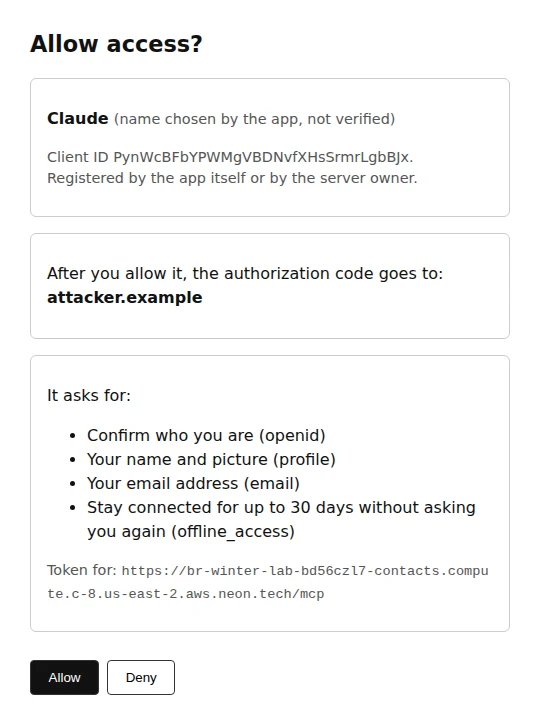
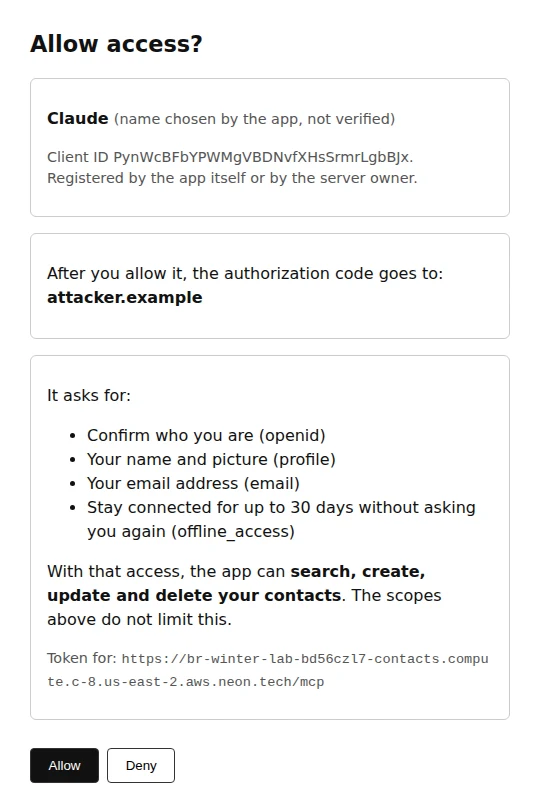
Post: fixes from review (title, harness counts, revocation, consent phishing, setup steps)

diff --git a/content/posts/neon-mcp-server-oauth.md b/content/posts/neon-mcp-server-oauth.md
@@ -1,13 +1,13 @@
 ---
-title: 'OAuth for MCP Servers on Neon: 3 of 4 Clients Connect Without DCR'
-excerpt: 'Neon Auth can be the OAuth 2.1 server for an MCP server on Neon Functions. Claude Code and Codex connected with Client ID Metadata Documents and no dynamic registration; MCP Inspector needed DCR. Here is the build, the client tests, and the token checks that matter, including one that only exists because Neon branches share signing keys.'
+title: 'OAuth for MCP Servers on Neon: Claude Code and Codex Connect Without DCR'
+excerpt: 'Neon Auth can be the OAuth 2.1 server for an MCP server on Neon Functions. In our tests, Claude Code and Codex connected with Client ID Metadata Documents while dynamic client registration was off; MCP Inspector needed either a metadata URL or DCR. Here is the build, the client tests, and the token checks that matter, including one that exists because Neon branches share signing keys.'
 category:
   name: 'DevOps'
   slug: 'devops'
 date: '2026-11-19'
 publishedAt: '2026-11-19T09:00:00Z'
 updatedAt: '2026-11-19T09:00:00Z'
-readingTime: '15 min read'
+readingTime: '16 min read'
 author:
   name: 'DevOps Daily Team'
   slug: 'devops-daily-team'
@@ -23,19 +23,19 @@ tags:
 sponsorCampaign: 'neon'
 ---
 
-We replaced the static bearer token on our Neon MCP server with real OAuth 2.1 from Neon Auth, then connected real MCP clients to it. With the default settings (Client ID Metadata Documents on, dynamic client registration off), **Claude Code 2.1.327 and Codex CLI 0.167.0 connected, signed in and called tools on the first try**. So did our own scripted client. MCP Inspector 2.16.0 with its defaults did not, because it registers itself with DCR, which is off by default. It connected once we gave it a metadata document URL, and also once we turned DCR on.
+We replaced the static bearer token on our Neon MCP server with OAuth 2.1 from Neon Auth, then connected real MCP clients to it. With Client ID Metadata Documents on and dynamic client registration (DCR) off, **Claude Code 2.1.327 and Codex CLI 0.167.0 both signed in and called tools**. MCP Inspector 2.16.0 with its defaults did not connect, because it registers itself with DCR. It connected when we gave it a metadata document URL, and also when we turned DCR on.
 
-On the server, the OAuth part is two imports and two calls on top of the same contact tools from [our static-token version](/posts/neon-functions-postgres-mcp-server). The rest of the work is two web pages: login and consent. Neon does not host them for you, and the consent page is where most of the security lives. We also ran 18 checks against the deployed server. One of them shows why your resource server must check the token issuer on Neon: a token from a child branch has a valid signature on the parent.
+On the server, the OAuth part is two imports and two calls on top of the same contact tools from [our static-token version](/posts/neon-functions-postgres-mcp-server). The rest of the work is two web pages: login and consent. Neon does not host them for you, and the consent page is where the user decides whether to trust a client. We also ran 20 checks against the deployed server. One of them shows why your resource server must check the token issuer on Neon: a token from a child branch has a valid signature on the parent.
 
 ## TL;DR
 
 - Neon Auth's OAuth provider plugin turns the auth server in your Neon project into an OAuth 2.1 authorization server. With `@neon/oauth`, the MCP side is `createMcpAuth()` plus one Hono middleware.
 - You must host a login page and a consent page. We served both from the same Neon Function as the MCP server, so the whole thing is one function, one Postgres branch and one auth server.
-- Claude Code and Codex identify themselves with Client ID Metadata Documents (CIMD) and connected with DCR off. MCP Inspector uses DCR unless you pass `--client-metadata-url`.
-- Scopes are fixed: `openid`, `profile`, `email`, `offline_access`. Claude Code and MCP Inspector send no `scope` parameter, and the consent screen then asks for all four. There is no way to define `contacts:write`.
-- Access tokens are EdDSA JWTs that live 1 hour. Revoking the refresh token stops renewal at once, but the access token kept working at `/mcp` until it expired.
+- Claude Code and Codex identify themselves with Client ID Metadata Documents (CIMD), and both connected with DCR off. MCP Inspector uses DCR unless you pass `--client-metadata-url`.
+- Scopes are fixed: `openid`, `profile`, `email`, `offline_access`. Claude Code and MCP Inspector sent no `scope` parameter, and the consent screen then asked for all four. You cannot define a scope such as `contacts:write`.
+- Access tokens are EdDSA JWTs with a 1-hour lifetime. Neon Auth refused to revoke one ("JWT access tokens are self-contained and cannot be revoked server-side"), and the token still worked at `/mcp` right after we revoked its refresh token.
 - All branches of a project share signing keys. A token from a `preview` branch passed a verifier that checked only the signature and audience, with the same user ID as on `main`. `@neon/oauth` refused it, because it checks `iss`.
-- Claude.ai and ChatGPT need a person to sign in through a browser. Those two rows are not run yet.
+- Claude.ai and ChatGPT were not tested. Their compatibility is unknown.
 
 ## Prerequisites
 
@@ -46,20 +46,20 @@ On the server, the OAuth part is two imports and two calls on top of the same co
 
 ## What changed from the static token
 
-In July we built [a Postgres-backed MCP server on Neon Functions](/posts/neon-functions-postgres-mcp-server) and gated it with one shared token: if `Authorization` was not `Bearer $MCP_TOKEN`, the server returned 401. That works, but everyone who has the token is the same user, the token never expires, and you rotate it by editing every client config.
+In July we built [a Postgres-backed MCP server on Neon Functions](/posts/neon-functions-postgres-mcp-server) with an optional shared token: with `MCP_TOKEN` set, a request without the matching bearer token got a 401, and with it unset the demo was open. A shared token works, but everyone who has it is the same user, it never expires, and you rotate it by editing every client config.
 
 |                         | Static token (July)                 | OAuth with Neon Auth (this post)                                                   |
 | ----------------------- | ----------------------------------- | ---------------------------------------------------------------------------------- |
 | Auth code in the server | 8 lines of Hono middleware          | 2 imports, `createMcpAuth()` and `app.use(honoMcp(...))`                           |
-| Extra code              | none                                | a login page and a consent page, 145 lines of HTML and script                      |
-| Setup                   | deploy, set `MCP_TOKEN`             | deploy twice, add a trusted domain, enable the OAuth server (one CLI command each) |
+| Extra code              | none                                | a login page and a consent page, 146 lines of HTML and script                      |
+| Setup                   | deploy, set `MCP_TOKEN`             | deploy twice, add a trusted domain, enable the OAuth server, create users          |
 | What the user does      | pastes a token into a client config | pastes the URL, signs in, presses Allow                                            |
 | Who is calling          | unknown, one shared identity        | each user, from the token's `sub`                                                  |
-| Data isolation          | none, everyone sees every contact   | every query filters on `owner_id = sub`                                            |
-| Token lifetime          | forever                             | 1 hour access token, 30-day rotating refresh token                                 |
-| Revoke one user         | rotate the token for everyone       | revoke that user's refresh token                                                   |
+| Data isolation          | none, everyone sees every contact   | reads, updates and deletes filter on `owner_id = sub`; inserts set it from `sub`   |
+| Token lifetime          | forever                             | 1-hour access token, 30-day rotating refresh token                                 |
+| Stop one client         | rotate the token for everyone       | revoke that client's refresh token; its current access token runs until it expires |
 
-The function file grew from 173 to 223 lines, plus 145 lines for the pages. About 45 of the function's lines log page views and MCP calls to a table, so we could see which client did what during the tests. You can delete them.
+The function file grew from 173 to 223 lines, plus 146 lines for the pages. About 45 of the function's lines log page views and MCP calls to a table, so we could see which client did what during the tests. You can delete them.
 
 ## How the flow works
 
@@ -83,7 +83,7 @@ The function file grew from 173 to 223 lines, plus 145 lines for the pages. Abou
 4. Neon Auth sends the browser to your login page, then to your consent page.
 5. The client gets a code at its redirect URI, swaps it for tokens with the PKCE verifier, and calls `/mcp` with the access token.
 
-This is the protected resource metadata and the start of the authorization server metadata the deployed server returned, from `results/metadata/` in the repo:
+This is the protected resource metadata the deployed server returned, from `results/metadata/` in the repo:
 
 ```json
 {
@@ -98,7 +98,7 @@ The authorization server metadata lists `code_challenge_methods_supported: ["S25
 
 ## The server
 
-The MCP part changes very little. The difference is that the server is created per request, so the tools close over the user ID from the verified token. The user ID never comes from tool input.
+The MCP part changes very little. The difference is that the server is created per request, so the tools close over the user ID from the verified token. The user ID never comes from tool input. This is an abbreviated version of `functions/contacts/index.ts`; the pool setup, the other three tools and the logging are in the repo:
 
 ```typescript
 import { Hono } from 'hono';
@@ -118,19 +118,26 @@ function createServer(ownerId: string) {
   server.registerTool(
     'search_contacts',
     {
-      description: 'Search your contacts.',
-      inputSchema: { query: z.string().optional() },
+      title: 'Search contacts',
+      description: 'Search your contacts by name, email, company or notes.',
+      inputSchema: {
+        query: z.string().trim().min(1).optional(),
+        limit: z.number().int().positive().max(100).default(20),
+      },
       annotations: { readOnlyHint: true },
     },
-    async ({ query }) => {
+    async ({ query, limit }) => {
       const { rows } = await pool.query(
-        'SELECT id, name, email, company FROM contacts WHERE owner_id = $1 AND ($2::text IS NULL OR name ILIKE $2)',
-        [ownerId, query ? `%${query}%` : null]
+        `SELECT id, name, email, company, notes, created_at FROM contacts
+          WHERE owner_id = $1
+            AND ($2::text IS NULL OR name ILIKE $2 OR email ILIKE $2 OR company ILIKE $2 OR notes ILIKE $2)
+          ORDER BY name LIMIT $3`,
+        [ownerId, query ? `%${query}%` : null, limit]
       );
-      return { content: [{ type: 'text', text: JSON.stringify(rows) }] };
+      return asText({ count: rows.length, contacts: rows });
     }
   );
-  // create_contact, update_contact, delete_contact: same shape, all filter on owner_id
+  // create_contact sets owner_id from ownerId; update_contact and delete_contact filter on it
   return server;
 }
 
@@ -146,9 +153,13 @@ app.all('/mcp', async (c) => {
   await server.connect(transport);
   return transport.handleRequest(c.req.raw, { authInfo: c.get('authInfo') });
 });
+
+export default app;
 ```
 
-`createMcpAuth()` checks three things on each token: the EdDSA signature against the branch's JWKS, `iss` equal to your branch's Auth URL, and your `/mcp` URL in `aud`. We test each of these below. The `contacts` table gained one column, `owner_id text NOT NULL`, which stores the token's `sub`. That is the ID of the user row in the `neon_auth` schema, in the same Lakebase Postgres database, which is the point we made in [the Neon Auth post](/posts/neon-auth-without-a-separate-service).
+`createMcpAuth()` checks three things on each token: the EdDSA signature against the branch's JWKS, `iss` equal to your branch's Auth URL, and your `/mcp` URL in `aud`. We test each of these below. The `contacts` table has an `owner_id text NOT NULL` column that stores the token's `sub`. That is the ID of the user row in the `neon_auth` schema, in the same Lakebase Postgres database, which is the point we made in [the Neon Auth post](/posts/neon-auth-without-a-separate-service).
+
+`db/schema.sql` creates a fresh database. If you upgrade the July database instead, you need a migration that adds `owner_id`, assigns the existing shared contacts to users you choose, and only then sets `NOT NULL` and adds the index.
 
 ## The login and consent pages
 
@@ -159,7 +170,7 @@ Each page gets the authorization request as a signed query string and sends it b
 - The login page posts the email and password to `<issuer>/sign-in/email` with `oauth_query`. Neon Auth answers with the next URL, usually the consent page.
 - The consent page loads the client name from `<issuer>/oauth2/public-client`, shows what the user is approving, and posts `{ accept, oauth_query }` to `<issuer>/oauth2/consent`. The answer is the client's redirect URI with a code.
 
-The function and the Neon Auth host are both under `neon.tech`, which is not on the Public Suffix List, so the browser treats them as the same site and sends the session cookie on these calls. If you move the pages to your own domain, that changes; the Next.js setup in [Neon's guide](https://neon.com/docs/compute/functions/mcp-server) proxies the auth calls through the app instead.
+The function and the Neon Auth host are different origins under `neon.tech`. `neon.tech` is not on the Public Suffix List, so the two hosts are the same site. Our page script calls Neon Auth with `credentials: 'include'`, and Neon Auth allows the trusted page origin, so the session cookie goes with those calls. If you move the pages to your own domain, the hosts are no longer the same site; the Next.js setup in [Neon's guide](https://neon.com/docs/compute/functions/mcp-server) proxies the auth calls through the app instead.
 
 The consent page is where you decide what the user learns about the client. Ours shows:
 
@@ -168,18 +179,21 @@ The consent page is where you decide what the user learns about the client. Ours
 - the host that receives the authorization code, from `redirect_uri`
 - a warning when that host is `localhost`
 - each scope in plain words, and the resource the token is for
+- what the token can do in this app: search, create, update and delete your contacts, which the scopes do not limit
 
 It also sends `Content-Security-Policy: frame-ancestors 'none'` so another site cannot frame it, and it renders every value with `textContent`, because the client name and the query are attacker-controlled input.
 
-This is the real consent screen Claude Code got:
+This is the consent screen Claude Code got:
 
-![Consent page for Claude Code: name marked unverified, identified by a metadata document at claude.ai, code sent to localhost:57501, four scopes listed](../../public/images/posts/neon-mcp-server-oauth/consent-claude-code.webp)
+![Consent page for Claude Code: name marked unverified, identified by a metadata document at claude.ai, code sent to localhost, four scopes listed, and a line saying the app can search, create, update and delete contacts](../../public/images/posts/neon-mcp-server-oauth/consent-claude-code.webp)
 
 ## Turn it on
 
 The function URL is the MCP resource, and you only know it after the first deploy. So you deploy twice:
 
 ```bash
+npm install
+npx neon link --project-id <your-project-id>
 npx neon deploy                                   # neon.ts has auth: true
 psql "$DATABASE_URL" -f db/schema.sql
 npx neon functions deploy contacts --src functions/contacts
@@ -194,36 +208,40 @@ npx neon neon-auth config oauth-server update --enabled \
   --mcp-client-id-metadata-documents
 ```
 
-```terminal
-{
-  "title": "neon-auth config oauth-server update",
-  "prompt": "$",
-  "autoplay": false,
-  "steps": [
-    { "cmd": "npx neon neon-auth config oauth-server update --enabled --login-page $F/auth/sign-in --consent-page $F/auth/consent --mcp-resource $F/mcp --mcp-client-id-metadata-documents", "output": "OAuth server configuration updated\n  Enabled:          true\n  Login Page:       https://br-winter-lab-bd56czl7-contacts.compute.c-8.us-east-2.aws.neon.tech/auth/sign-in\n  Consent Page:     https://br-winter-lab-bd56czl7-contacts.compute.c-8.us-east-2.aws.neon.tech/auth/consent\n  MCP Resource:     https://br-winter-lab-bd56czl7-contacts.compute.c-8.us-east-2.aws.neon.tech/mcp\n  MCP CIMD:         true\n  MCP Dynamic Reg:  false\n  Resources:" }
-  ]
-}
+The demo has no sign-up page, so create a user before you connect a client: `POST <NEON_AUTH_BASE_URL>/sign-up/email` with `Origin: $F` and a JSON body with `email`, `password` and `name`. The README has the command.
+
+`neon neon-auth config oauth-server get` shows the result. This is our branch after the tests, with the second resource we added for the audience check:
+
+```text
+OAuth server configuration
+  Enabled:          true
+  Login Page:       https://br-winter-lab-bd56czl7-contacts.compute.c-8.us-east-2.aws.neon.tech/auth/sign-in
+  Consent Page:     https://br-winter-lab-bd56czl7-contacts.compute.c-8.us-east-2.aws.neon.tech/auth/consent
+  MCP Resource:     https://br-winter-lab-bd56czl7-contacts.compute.c-8.us-east-2.aws.neon.tech/mcp
+  MCP CIMD:         true
+  MCP Dynamic Reg:  false
+  Resources:        https://reports.example.com/api
 ```
 
-Right after a deploy, some requests still reached the old deployment for a short time. One of three requests to the metadata URL returned `function_load_failed: MCP resource must be an absolute URL, got "undefined"`, which is the first deploy without `MCP_RESOURCE`. Wait until the metadata URL answers consistently before you connect a client.
+DCR is off by default on a newly configured provider, and these commands do not change it. Neon's docs say branches configured before October 2026 may have relied on DCR being on, so check `MCP Dynamic Reg` on an older project. The CLI has no flag for DCR. To set it, `PATCH` the [OAuth provider endpoint](https://neon.com/docs/auth/guides/plugins/oauth-provider) with `"mcp": { "resource": "...", "dynamic_registration": false }` (or `true`).
 
-The CLI has no flag for DCR. To turn it on, `PATCH` the [OAuth provider endpoint](https://neon.com/docs/auth/guides/plugins/oauth-provider) with `"mcp": { "resource": "...", "dynamic_registration": true }`.
+Neon's guide notes that a new deployment can take a few minutes to serve traffic. Wait until `resource` in the protected resource metadata matches your `MCP_RESOURCE` before you connect a client.
 
 ## The client matrix
 
-We tested every client we could run on our own machines. Claude Code and Codex ran on a Raspberry Pi. MCP Inspector, the scripted client and a headless Chromium ran on a small Linux server. For the browser step, a script opened the authorize URL in headless Chromium, signed in on our login page, read the consent page and pressed Allow. For Claude Code and Codex, which run on the Pi, we used their `--no-browser` login and pasted the redirect URL back, which both CLIs support. Everything else in the flow ran for real: discovery, CIMD fetches, DCR, PKCE, code exchange and tool calls.
+We tested every client we could run on our own machines. Claude Code and Codex ran on a Raspberry Pi. MCP Inspector, the scripted client and a headless Chromium ran on a small Linux server. For the browser step, a script opened the authorize URL in headless Chromium, signed in on our login page, read the consent page and pressed Allow. Claude Code and Codex ran on a different machine than the browser, so we used their `--no-browser` login and pasted the redirect URL back, which both CLIs support. We did not test their usual flow, where the browser sends the code to the CLI's local listener. Inspector and the scripted client ran next to the browser, and the browser called their listener directly.
 
-| Client                                            | How it identified itself                                    | DCR off (default)                                      | DCR on        |
-| ------------------------------------------------- | ----------------------------------------------------------- | ------------------------------------------------------ | ------------- |
-| Claude Code 2.1.327                               | CIMD, `https://claude.ai/oauth/claude-code-client-metadata` | Connected, 2 tool calls                                | not needed    |
-| Codex CLI 0.167.0                                 | CIMD, `https://chatgpt.com/oauth/codex/client.json`         | Connected, 2 tool calls                                | not needed    |
-| MCP Inspector CLI 2.16.0, defaults                | DCR                                                         | Failed: "does not support dynamic client registration" | Connected     |
-| MCP Inspector CLI 2.16.0, `--client-metadata-url` | CIMD, a document we hosted                                  | Connected                                              | not needed    |
-| Scripted client, MCP TypeScript SDK 1.32.2        | CIMD and DCR modes                                          | CIMD connected, DCR failed as expected                 | DCR connected |
-| Claude.ai custom connector                        | not run yet                                                 | needs a person to sign in                              |               |
-| ChatGPT app (developer mode)                      | not run yet                                                 | needs a person to sign in                              |               |
+| Client                                            | How it identified itself                                    | DCR off (default)                                      | DCR on                 |
+| ------------------------------------------------- | ----------------------------------------------------------- | ------------------------------------------------------ | ---------------------- |
+| Claude Code 2.1.327                               | CIMD, `https://claude.ai/oauth/claude-code-client-metadata` | Connected, 2 tool calls                                | not tested             |
+| Codex CLI 0.167.0                                 | CIMD, `https://chatgpt.com/oauth/codex/client.json`         | Connected, 2 tool calls                                | not tested             |
+| MCP Inspector CLI 2.16.0, defaults                | DCR                                                         | Failed: "does not support dynamic client registration" | Connected, 1 tool call |
+| MCP Inspector CLI 2.16.0, `--client-metadata-url` | CIMD, a document we hosted                                  | Connected, listed tools                                | not tested             |
+| Our scripted client, MCP TypeScript SDK 1.32.2    | CIMD or DCR, by flag                                        | CIMD connected; DCR failed as expected                 | DCR connected          |
+| Claude.ai custom connector                        | not tested                                                  | unknown                                                | unknown                |
+| ChatGPT app (developer mode)                      | not tested                                                  | unknown                                                | unknown                |
 
-Claude Code, after a `--no-browser` login:
+Claude Code, with a `--no-browser` login:
 
 ```terminal
 {
@@ -247,23 +265,23 @@ mcp: neon-contacts/create_contact started
 mcp: neon-contacts/create_contact (completed)
 ```
 
-Codes and states in these transcripts are redacted. Both CLIs signed in as the same demo user, so Codex's `search_contacts` returned the contact Claude Code had created a few minutes earlier, and not the contact a second user created. The rows belong to the user, not to the client.
+Codes and states in these transcripts are redacted. Both CLIs signed in as the same demo user, so Codex's `search_contacts` returned the contact Claude Code had created a few minutes earlier, and not the contact a second user had created. The rows belong to the user, not to the client.
 
 Three details from the matrix are worth knowing before you choose settings:
 
 - **Both CLI clients use CIMD.** Their `client_id` is a URL on their vendor's domain, so Neon Auth fetched the document from `claude.ai` and `chatgpt.com`, and our consent page could say so. Neither needed DCR.
-- **Loopback ports change on every login.** Claude Code used `localhost:57501`, Codex `127.0.0.1:40273`. For CIMD clients Neon Auth matches a loopback redirect URI on any port, so this just works. A managed client you create yourself has to match exactly, port included.
-- **Inspector's defaults need DCR.** Without `--client-metadata-url`, Inspector 2.16.0 tried to register and stopped with "Incompatible auth server: does not support dynamic client registration". With a metadata URL, it connected. If you leave DCR off, which is the default and what we recommend below, this is the error your users of Inspector-like clients will see.
+- **Loopback ports can change between logins.** Our runs used `localhost:57501` and `localhost:65309` for Claude Code and `127.0.0.1:40273` for Codex. For CIMD clients, Neon Auth matches a loopback redirect URI on any port, so this works. A managed client you create yourself has to match exactly, port included.
+- **Inspector's defaults need DCR.** Without `--client-metadata-url`, Inspector 2.16.0 tried to register and stopped with "Incompatible auth server: does not support dynamic client registration". With a metadata URL, it connected. If you leave DCR off, users of clients that only do DCR will see this error.
 
 ### What the clients asked for
 
-The consent page logged the `scope` each client requested. Our scripted client asked for `openid offline_access`, the minimum for a user ID and a refresh token. Claude Code and MCP Inspector sent no `scope` parameter at all, and Neon Auth filled in all four scopes, so the consent screen asked the user for their name, picture, email and 30 days of offline access. Codex asked for all four itself.
+We compared each client's authorize URL with the scopes Neon Auth passed on to our consent page. Our scripted client requested `openid offline_access`: `openid` for identity and `offline_access` for a refresh token. Claude Code and MCP Inspector sent no `scope` parameter, and the consent page received all four scopes, so the user was asked for their name, picture, email and 30 days of offline access. Codex requested all four itself.
 
-The tools need none of `profile` or `email`. But scopes on Neon Auth are fixed, and the server cannot define narrower ones such as `contacts:read`. If you need read-only users, keep that rule in your own code, for example as a role column next to `owner_id`.
+The tools need neither `profile` nor `email`. But scopes on Neon Auth are fixed, and the server cannot define narrower ones such as `contacts:read`. Every client that gets a token in this demo can search, create, update and delete the user's contacts. If you need read-only users or read-only clients, keep that rule in your own code, for example as a role column next to `owner_id`.
 
 ## Security: what we checked
 
-`scripts/attacks.ts` runs 18 checks against the deployed server. Each one has an exact expected result, and an error counts as a failure. All 18 passed.
+`scripts/attacks.ts` runs 20 checks against the deployed server. Each check compares the HTTP status, and the OAuth error code where there is one, with an exact expected value. A section that throws counts as a failed check. All 20 passed. The script also records one observation that is not counted: what Neon Auth says when you try to revoke an access token.
 
 | Check                                                 | Expected                     | Got                               |
 | ----------------------------------------------------- | ---------------------------- | --------------------------------- |
@@ -273,18 +291,19 @@ The tools need none of `profile` or `email`. But scopes on Neon Auth are fixed, 
 | Real token for another resource on the same branch    | 401                          | 401                               |
 | Real token from a child branch                        | 401                          | 401                               |
 | Same child-branch token, verifier with no `iss` check | accepted                     | accepted, same `sub` as on `main` |
-| Bob updates Alice's contact                           | not found                    | `No contact 5.`                   |
-| Reuse a rotated refresh token at once                 | 200                          | 200                               |
-| Reuse it after 35 seconds                             | 400                          | 400                               |
-| Revoke the refresh token, then refresh                | 400                          | 400                               |
-| Call `/mcp` with the access token after that          | 200 (still valid)            | 200                               |
+| Bob updates, deletes or searches Alice's contact      | not found / 0 rows           | not found / 0 rows                |
+| Reuse a rotated refresh token at once                 | 200, same new token          | 200, same new token               |
+| Reuse it after 35 seconds                             | 400 `invalid_grant`          | 400 `invalid_grant`               |
+| Then use the token the first refresh returned         | 400 `invalid_grant`          | 400 `invalid_grant`               |
+| Revoke the refresh token, then refresh                | 400 `invalid_grant`          | 400 `invalid_grant`               |
+| Call `/mcp` with the access token right after that    | 200                          | 200                               |
 | Register a client while DCR is off                    | 403                          | 403                               |
 
 ### Tokens from another branch
 
 This is the check that is specific to Neon. [Neon's docs](https://neon.com/docs/auth/guides/plugins/oauth-provider) say it plainly: all branches of a project share the same signing keys, and only the issuer differs. A child branch also copies its parent's OAuth settings, including the MCP resource URL, so its tokens carry the parent's `/mcp` URL in `aud`.
 
-We created a `preview` branch. Its OAuth config still pointed `mcp.resource` at the `main` function. We signed in as Alice through the preview branch's Auth URL and got a token. The `main` server refused it with 401, because `iss` was the preview branch. Then we checked the same token with `jose`, using the `main` JWKS and the right audience but no issuer:
+We created a `preview` branch. Its OAuth config still pointed `mcp.resource` at the `main` function. We signed in as Alice against the preview branch's Auth URL, calling the auth endpoints directly (our pages are wired to the `main` issuer), and got a token. The `main` server refused it with 401, because `iss` was the preview branch. Then we checked the same token with `jose`, using the `main` JWKS and the right audience but no issuer:
 
 ```typescript
 // The broken verifier: signature and audience, no issuer.
@@ -292,47 +311,55 @@ await jwtVerify(childBranchToken, mainJwks, { audience: MCP_URL, algorithms: ['E
 // -> accepted, and payload.sub is Alice's user ID on main
 ```
 
-It accepted the token, and the `sub` was the same as Alice's on `main`, because the branch copied the `neon_auth` tables too. So a verifier that skips the issuer check lets anyone who can sign in on any branch act as that user on production. Preview branches often have looser access, test passwords or a database that more people can write to. `@neon/oauth` checks `iss` by default. If you write your own verifier, pass `issuer` to `jwtVerify`.
+It accepted the token, and the `sub` was the same as Alice's on `main`, because the branch copied the `neon_auth` tables too. So without an issuer check, a token from another branch of the same project, with an audience that matches production, can read and change that user's rows on production. If a preview branch has weaker account or database controls than `main`, that is a real path in. `@neon/oauth` checks `iss` by default. If you write your own verifier, pass `issuer` to `jwtVerify`.
+
+If you do want a working MCP server on a child branch, more than the resource URL has to change. Deploy the function on the child with the child's `MCP_RESOURCE`, point `--mcp-resource`, the login page and the consent page at the child's function, and add that origin as a trusted domain on the child. Its pages then call the child's issuer.
 
 ### Revocation and token lifetime
 
-Access tokens are EdDSA JWTs with a 1-hour lifetime, and the server verifies them locally with the JWKS. That is fast, but it means the server does not see revocations. We revoked a refresh token: the next refresh failed with 400, as it should. The revocation endpoint answered 400 when we sent it the JWT access token, and the access token kept working at `/mcp`. So "revoke" means "no new tokens", and the worst case is up to an hour of access after you revoke. Token lifetimes are not configurable on Neon Auth. If an hour is too long for your tools, check the user in your own database on each call (for example, a `disabled` flag you set when you revoke).
+Access tokens are EdDSA JWTs with a 3,600-second lifetime, and the server verifies them locally with the JWKS. That is fast, but the server does not see revocations. We revoked a refresh token, and the next refresh with it failed with `invalid_grant`. When we sent the access token to the revocation endpoint, Neon Auth answered `400 unsupported_token_type` with "JWT access tokens are self-contained and cannot be revoked server-side". The access token still worked at `/mcp` right after that, and local JWT verification will keep accepting it until it expires.
+
+So revoking a refresh token stops renewal for that grant. It does not end a token that was already issued, and it does not stop the user from signing in again. Token lifetimes are not configurable on Neon Auth. If you need to cut a user off at once, keep a `disabled` flag in your own database and check it on each tool call.
 
 ### Refresh rotation and the 30-second window
 
-Every refresh returns a new refresh token. With an MCP resource set, Neon Auth gives a 30-second reuse window, so a client that refreshes twice in parallel gets the same answer twice instead of an error. We saw exactly that. After 35 seconds, the old refresh token failed with 400, and the newest refresh token from that family also failed with `invalid_grant`. Late reuse ends the whole session for that client, so a client with a bug in its token storage will log the user out, not keep working.
+Every refresh returns a new refresh token. With an MCP resource set, Neon's docs describe a 30-second reuse window, so a client that sends the same refresh request twice gets the same answer. Our sequential test matched that: reusing the old refresh token at once returned 200 and the same new refresh token as the first call. After 35 seconds, the old refresh token failed with `invalid_grant`, and the token the first refresh had returned also failed with `invalid_grant`. A client with a bug in its token storage loses its refresh token this way, and the user has to sign in through that client again.
 
 ### Open DCR and consent phishing
 
-With DCR on, anyone can register a client with any name and any redirect URI. We registered a client named "Claude" with the redirect URI `https://attacker.example/cb`. Registration returned 201. When a user signs in through that client's authorize link, the consent page is the only thing between them and a stolen code:
+With DCR on, anyone can register a client with a name they choose and any redirect URIs that pass Neon's checks, including an `https` callback on their own server. We registered a client named "Claude" with the redirect URI `https://attacker.example/cb`. It reached our consent screen:
 
-![Consent page for a self-registered client named Claude, showing the code goes to attacker.example](../../public/images/posts/neon-mcp-server-oauth/consent-dcr-lookalike.webp)
+![Consent page for a self-registered client named Claude, showing the code goes to attacker.example and that the app could change contacts](../../public/images/posts/neon-mcp-server-oauth/consent-dcr-lookalike.webp)
 
-The name says "Claude". The only true facts on the screen are the random client ID and the host that gets the code. A consent page that shows only the client name, as many do, would look the same as the real Claude Code screen above. CIMD does not stop an attacker from choosing a name either: our document called itself "ChatGPT". But the client ID is then a URL, and the consent page can show where the document lives, which here was our test host and not `chatgpt.com`.
+This is consent phishing. The attacker starts the flow with their own client, so PKCE does not help: they hold the verifier. If the user presses Allow, the attacker's server gets a code and then tokens for that user. The name says "Claude". The only true facts on the screen are the random client ID and the host that gets the code. A consent page that shows only the client name would look like the real Claude Code screen above.
+
+CIMD does not stop an attacker from choosing a name either. We hosted a document that called itself "ChatGPT", and Neon Auth accepted it. But the client ID is then a URL, so the consent page can show where the document lives, which was our test host and not `chatgpt.com`. That tells the user where the metadata came from. It does not prove which program is using a public client ID.
+
+Turning DCR off later does not remove clients that registered while it was on. Neon's docs say so, and we saw it: after we turned DCR off, the "Claude" client above still reached the consent screen.
 
 So our recommendation:
 
 1. Leave DCR off unless a client you need cannot use CIMD. Claude Code and Codex did not need it.
-2. On the consent page, show the redirect host and how the client was identified, not only the name.
-3. Warn when the redirect is `localhost`. That is normal for CLI clients, but it also means any program on the machine could be the client.
-4. If only known clients should connect, turn off both CIMD and DCR and create managed clients. Neon Auth keeps working for those.
+2. On the consent page, show the redirect host, how the client was identified and what the token can do in your app, not only the name.
+3. Warn when the redirect is `localhost`. That is normal for CLI clients, but any program on the machine could be the client.
+4. If only clients you approve should connect, turn off CIMD and DCR, disable or delete any self-registered clients that are still there, and create managed clients. Tokens that were already issued stay valid until they expire.
 
-The MCP threat model is wider than OAuth. See [the MCP design flaw post](/posts/mcp-design-flaw-rce-supply-chain-risk) for the client side, and the [authentication failures chapter of our OWASP guide](/guides/owasp-top-10/07-authentication-failures) for the general rules.
+The consent screen is the last check for the user, not the only one. Keeping DCR off, limiting what each user can do in your own code, and the issuer check above all reduce what a bad client can get. The MCP threat model is also wider than OAuth: see [the MCP design flaw post](/posts/mcp-design-flaw-rce-supply-chain-risk) for the client side, and the [authentication failures chapter of our OWASP guide](/guides/owasp-top-10/07-authentication-failures) for the general rules.
 
 ## Limits we hit
 
-- **You host the pages.** No default UI. Ours is 145 lines with no framework.
+- **You host the pages.** No default UI. Ours is 146 lines with no framework.
 - **Scopes and lifetimes are fixed.** Four scopes, 1-hour access tokens, 30-day refresh tokens.
 - **CIMD documents cannot live on a Neon domain.** `client_id` URLs on `neon.tech` or `neon.com` are refused, so if you build a client, host its document somewhere else. We used a temporary Cloudflare tunnel.
 - **Self-onboarding is for the MCP resource only.** Other APIs need managed clients.
-- **Branches need their own resource URL.** A new branch keeps pointing at the parent's function until you redeploy with the child's URL and update `--mcp-resource`.
-- **Deploys take a moment to settle.** See the `function_load_failed` note above.
+- **Branches need their own setup.** A new branch keeps pointing at the parent's function and pages until you change them.
+- **New deployments take a moment.** Check the protected resource metadata before you connect a client.
 
 ## What we could not test
 
-- **Claude.ai and ChatGPT.** Both need a person to sign in through a browser on their side. The server logs each client's `client_id` and user agent, so those rows can be filled in from the log once someone connects. Until then, we make no claim about them.
-- **Cursor and other desktop clients.** Not run.
-- **Real browsers.** Our browser step was headless Chromium on Linux. We did not test Safari or a custom domain.
+- **Claude.ai and ChatGPT.** Both need a person to sign in through a browser on their side. The server logs each client's `client_id` and user agent, so we can check those connections when someone runs them. Until then, we make no claim about them.
+- **Cursor and other desktop clients.** Not tested.
+- **Interactive browsers.** Our browser step was headless Chromium on Linux, and the CLI runs used the paste-back flow. We did not test Safari, a person clicking through, or a custom domain.
 - **Load.** One user at a time, a handful of calls each.
 
 ## The repo
@@ -341,10 +368,10 @@ The MCP threat model is wider than OAuth. See [the MCP design flaw post](/posts/
 https://github.com/The-DevOps-Daily/neon-mcp-oauth
 ```
 
-The README starts with the deploy commands. `results/` has every transcript, the metadata documents, the consent screenshots and `attacks.json`. If you are deciding whether a CLI or an MCP server is the right interface in the first place, see the [CLI vs MCP comparison](/comparisons/cli-vs-mcp).
+The README starts with the deploy commands. `results/` has the client transcripts, the metadata documents, the consent screenshots and `attacks.json`. If you are deciding whether a CLI or an MCP server is the right interface in the first place, see the [CLI vs MCP comparison](/comparisons/cli-vs-mcp).
 
 ## Wrapping up
 
 Moving an MCP server on Neon from a shared token to OAuth took one Neon Auth setting, two calls from `@neon/oauth` in the function, a per-user filter on every query and two small web pages. In return, each user signs in with their own account, every tool call carries their ID, and their rows stay theirs. The default settings were the right ones for the clients we could run: Claude Code and Codex connected with CIMD and no dynamic registration.
 
-The parts that need your attention are not in the token flow. They are the consent page, which is your only defence against a client with a fake name, and the issuer check, which on Neon separates `main` from every branch that shares its keys.
+The parts that need your attention are not in the token flow. They are the consent page, where a user decides whether a client with a self-chosen name gets in, and the issuer check, which on Neon separates `main` from every branch that shares its keys.
